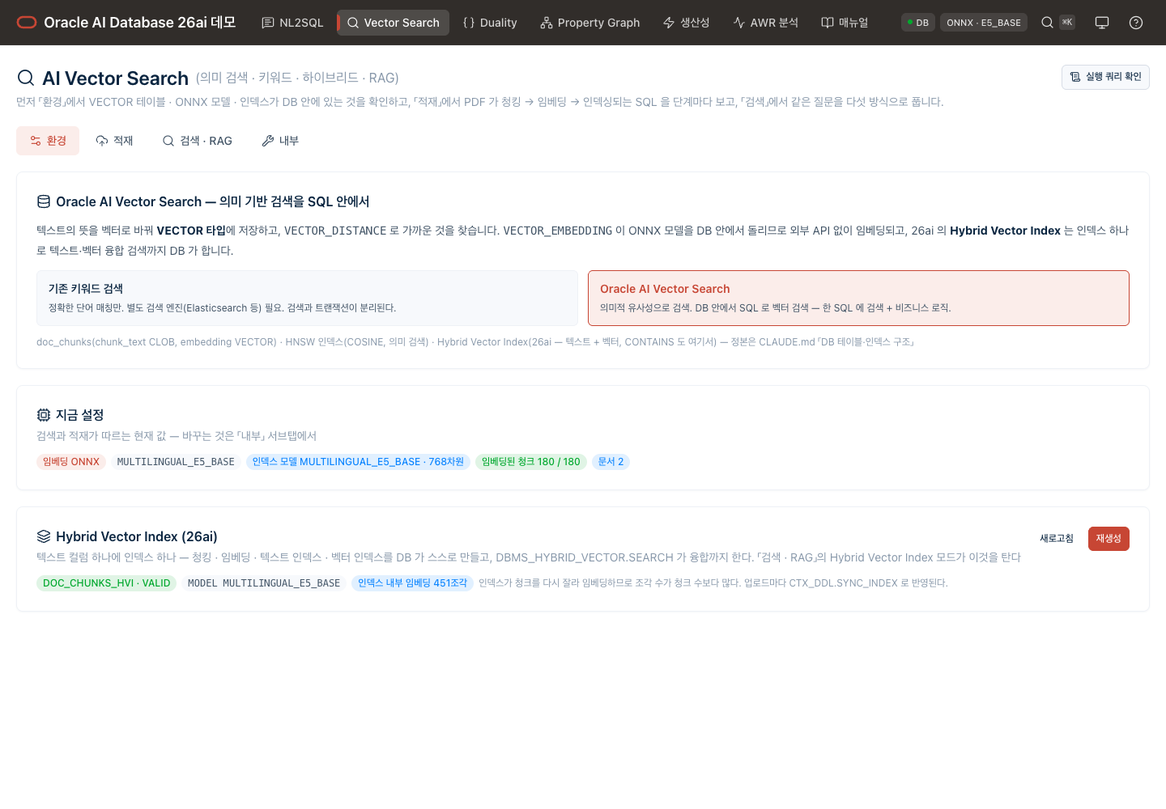
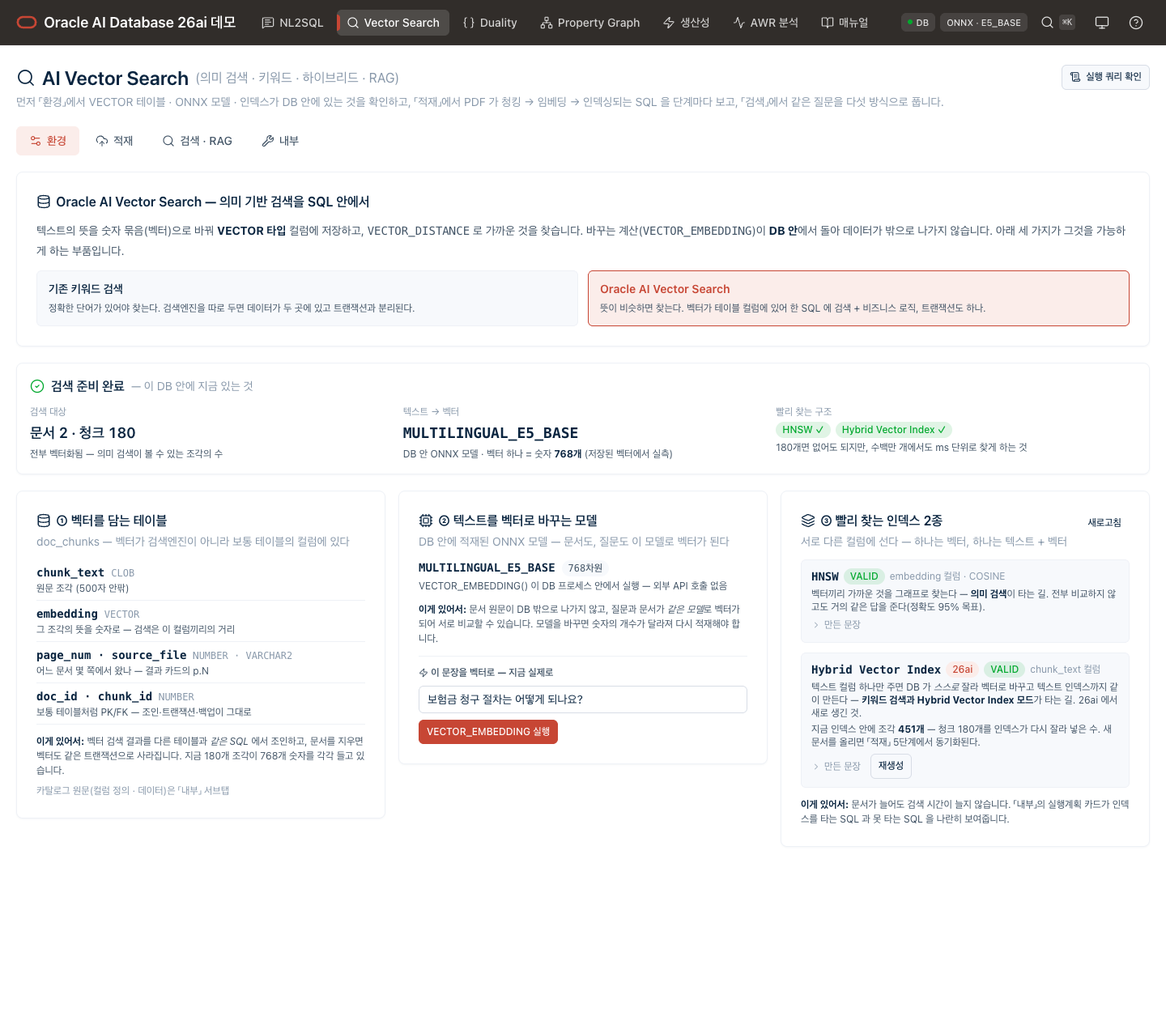
feat(vector): 「환경」 탭을 보는 사람 기준으로 다시 짓다 + VECTOR_DIMS 실측 (재편 P3, 보완 ⑤)
P1 화면에 대한 사용자 피드백: 소개 카드 밑의 "정본은 CLAUDE.md …" 줄은 관객에게 불필요 ·
「지금 설정」 카드의 목적이 안 보인다 · 칩 문구가 나열만 되어 보는 사람이 무엇을 얻어가는지
없다. 이것을 P3 의 설계 원칙으로 삼아 한 번에 지었다.

원칙: 값을 나열하지 않는다. 값마다 뜻, 카드마다 "이게 있어서: …" 한 줄, 가능한 곳엔 그 자리에서
실제 호출. 개발자용 문구(정본 위치·카탈로그 원문)는 「내부」로.

  VectorEnv.vue   개요(관객 문장) → 「검색 준비 완료」 3열 요약(검색 대상 · 텍스트→벡터 · 빨리 찾는
                  구조, 값 + 뜻) → 사슬 3카드: ① 벡터를 담는 테이블(컬럼 4개 + 뜻) · ② 텍스트를
                  벡터로 바꾸는 모델 + 「이 문장을 벡터로」(VECTOR_EMBEDDING 실행 → 숫자 768개·ms·
                  앞부분·SQL) · ③ 인덱스 2종(HNSW = 의미 검색이 타는 길, Hybrid Vector Index 26ai =
                  키워드·HVI 모드가 타는 길, 「만든 문장」 DDL 펼침, 생성 버튼)
  vector_search.py get_index_info 의 vector_dimensions: 768 하드코딩 → 저장된 벡터의 VECTOR_DIMS
                  실측 + dimensions_measured, hnsw_ddl. except: pass → logger.warning
  stores/vector.ts envEmbedText/envEmbed/testEmbed (onnx-models/test 재사용)

함정: lib/vector.ts 인터페이스를 문자열 슬라이스로 바꾸다 안쪽 '}' 에서 잘라 빌드가 깨졌다 —
다음 export 선언 직전까지를 범위로 복구. 여러 줄 타입은 파일을 읽고 고칠 것.

검증: 테스트 +1(dimensions_measured · hnsw_ddl), pytest 63 · ruff · build 통과. 브라우저: 요약
"문서 2 · 청크 180 · 전부 벡터화됨 · 768개 (저장된 벡터에서 실측) · HNSW ✓ HVI ✓", 카드 3개,
VECTOR_EMBEDDING 실행 → 768개 54ms + 미리보기 + SQL, DDL 토글 2개, 옛 정본 안내 줄 없음.
레지스트리 · 가이드 01 · 설계서 05 · CLAUDE.md(EMBEDDING_DIM = 폴백) · 핸드오프 4-21.

diff --git a/web/src/pages/vector/VectorEnv.vue b/web/src/pages/vector/VectorEnv.vue
@@ -1,69 +1,151 @@
 <script setup lang="ts">
 /**
- * 「환경」 서브탭 — 시연의 시작점: 이 DB 안에 무엇이 준비돼 있나 (2026-09-09 재편 P1).
- * P1 은 옛 Vector Store 의 소개 카드와 Hybrid Vector Index 카드를 옮기고 현재 설정 요약을 붙인 것.
- * P3 에서 NL2SQL 환경 탭과 같은 상태 스트립 + 카드 사슬(VECTOR 테이블 → ONNX 모델 → 인덱스 2종)로 다시 짠다.
+ * 「환경」 서브탭 (P3, 2026-09-09) — 시연의 시작점. 설계 원칙은 사용자 피드백 그대로:
+ * "보는 사람이 이 카드에서 무엇을 이해할 수 있는가". 값을 나열하지 않는다 — 값마다 뜻을, 카드마다 "이게 있어서 무엇이 되는가"를 적는다.
+ * 사슬: ① 벡터를 담는 테이블 → ② 텍스트를 벡터로 바꾸는 모델(DB 안) → ③ 빨리 찾는 인덱스 2종. 끝에 「이 문장을 벡터로」 실제 호출.
  */
 import { computed, onMounted, ref } from 'vue'
-import { Database, Layers, Cpu } from 'lucide-vue-next'
+import { Database, Cpu, Layers, Zap, ChevronRight, ChevronDown, CheckCircle2, XCircle } from 'lucide-vue-next'
 import Card from '@/components/ui/Card.vue'
 import Button from '@/components/ui/Button.vue'
 import Badge from '@/components/ui/Badge.vue'
 import ConfirmModal from '@/components/ui/ConfirmModal.vue'
+import LoadingBlock from '@/components/ui/LoadingBlock.vue'
 import SqlBlock from '@/components/demo/SqlBlock.vue'
 import VersusBox from '@/components/demo/VersusBox.vue'
+import { fmtNum } from '@/lib/format'
 import { useVectorStore } from '@/stores/vector'
+
 const v = useVectorStore()
 const confirmHvi = ref(false)
+const showDdl = ref<Record<string, boolean>>({})
+const toggle = (k: string) => { showDdl.value[k] = !showDdl.value[k] }
 onMounted(() => { void v.loadConfig(); if (!v.docsLoaded) void v.loadDocs(); if (!v.hvi) void v.loadHvi() })
-const embeddedRatio = computed(() => `${v.indexInfo?.embedded_chunks ?? '—'} / ${v.indexInfo?.total_chunks ?? '—'}`)
+
+const info = computed(() => v.indexInfo)
+const allEmbedded = computed(() => !!info.value && (info.value.total_chunks ?? 0) > 0 && info.value.embedded_chunks === info.value.total_chunks)
+const hnswOk = computed(() => (info.value?.index?.status ?? '') === 'VALID')
+const hviOk = computed(() => !!v.hvi?.exists && (v.hvi?.status ?? 'VALID') === 'VALID')
+const ready = computed(() => allEmbedded.value && hnswOk.value)
+
+// ① 테이블 — 스키마는 앱 코드가 정하므로 고정 목록. 카탈로그 원문은 「내부」에서
+const COLUMNS = [
+  { name: 'chunk_text', type: 'CLOB', meaning: '원문 조각 (500자 안팎)' },
+  { name: 'embedding', type: 'VECTOR', meaning: '그 조각의 뜻을 숫자로 — 검색은 이 컬럼끼리의 거리' },
+  { name: 'page_num · source_file', type: 'NUMBER · VARCHAR2', meaning: '어느 문서 몇 쪽에서 왔나 — 결과 카드의 p.N' },
+  { name: 'doc_id · chunk_id', type: 'NUMBER', meaning: '보통 테이블처럼 PK/FK — 조인·트랜잭션·백업이 그대로' },
+]
 </script>
 
 <template>
   <div class="flex flex-col gap-5">
+    <!-- 개요 -->
     <Card title="Oracle AI Vector Search — 의미 기반 검색을 SQL 안에서" :icon="Database">
-      <VersusBox left-title="기존 키워드 검색" left-desc="정확한 단어 매칭만. 별도 검색 엔진(Elasticsearch 등) 필요. 검색과 트랜잭션이 분리된다."
-        right-title="Oracle AI Vector Search" right-desc="의미적 유사성으로 검색. DB 안에서 SQL 로 벡터 검색 — 한 SQL 에 검색 + 비즈니스 로직.">
-        텍스트의 뜻을 벡터로 바꿔 <strong style="color: var(--text-primary);">VECTOR 타입</strong>에 저장하고, <code class="font-mono">VECTOR_DISTANCE</code> 로 가까운 것을 찾습니다.
-        <code class="font-mono">VECTOR_EMBEDDING</code> 이 ONNX 모델을 DB 안에서 돌리므로 외부 API 없이 임베딩되고, 26ai 의 <strong style="color: var(--text-primary);">Hybrid Vector Index</strong> 는 인덱스 하나로 텍스트·벡터 융합 검색까지 DB 가 합니다.
-        <template #footer>doc_chunks(chunk_text CLOB, embedding VECTOR) · HNSW 인덱스(COSINE, 의미 검색) · Hybrid Vector Index(26ai — 텍스트 + 벡터, CONTAINS 도 여기서) — 정본은 CLAUDE.md 「DB 테이블·인덱스 구조」</template>
+      <VersusBox left-title="기존 키워드 검색" left-desc="정확한 단어가 있어야 찾는다. 검색엔진을 따로 두면 데이터가 두 곳에 있고 트랜잭션과 분리된다."
+        right-title="Oracle AI Vector Search" right-desc="뜻이 비슷하면 찾는다. 벡터가 테이블 컬럼에 있어 한 SQL 에 검색 + 비즈니스 로직, 트랜잭션도 하나.">
+        텍스트의 뜻을 숫자 묶음(벡터)으로 바꿔 <strong style="color: var(--text-primary);">VECTOR 타입</strong> 컬럼에 저장하고, <code class="font-mono">VECTOR_DISTANCE</code> 로 가까운 것을 찾습니다.
+        바꾸는 계산(<code class="font-mono">VECTOR_EMBEDDING</code>)이 <strong style="color: var(--text-primary);">DB 안</strong>에서 돌아 데이터가 밖으로 나가지 않습니다. 아래 세 가지가 그것을 가능하게 하는 부품입니다.
       </VersusBox>
     </Card>
 
-    <Card title="지금 설정" subtitle="검색과 적재가 따르는 현재 값 — 바꾸는 것은 「내부」 서브탭에서" :icon="Cpu">
-      <div class="flex flex-wrap items-center gap-1.5">
-        <Badge tone="primary">임베딩 {{ v.sourceLabel }}</Badge>
-        <Badge tone="code">{{ v.model || '—' }}</Badge>
-        <Badge tone="info">인덱스 모델 {{ v.indexInfo?.embedding_model ?? '—' }} · {{ v.indexInfo?.vector_dimensions ?? '—' }}차원</Badge>
-        <Badge :tone="(v.indexInfo?.embedded_chunks ?? 0) > 0 ? 'positive' : 'default'">임베딩된 청크 {{ embeddedRatio }}</Badge>
-        <Badge tone="info">문서 {{ v.docs.length }}</Badge>
-        <Badge v-if="v.dimensionWarning" tone="warm">⚠ 인덱스 차원 ≠ 현재 모델</Badge>
-      </div>
-    </Card>
-
-    <Card title="Hybrid Vector Index (26ai)" subtitle="텍스트 컬럼 하나에 인덱스 하나 — 청킹 · 임베딩 · 텍스트 인덱스 · 벡터 인덱스를 DB 가 스스로 만들고, DBMS_HYBRID_VECTOR.SEARCH 가 융합까지 한다. 「검색 · RAG」의 Hybrid Vector Index 모드가 이것을 탄다" :icon="Layers">
-      <template #actions>
-        <Button size="sm" variant="ghost" :busy="v.hviBusy === 'load'" @click="v.loadHvi()">새로고침</Button>
-        <Button size="sm" :busy="v.hviBusy === 'create'" :disabled="v.hviBusy !== ''" @click="confirmHvi = true">{{ v.hvi?.exists ? '재생성' : '생성' }}</Button>
+    <!-- 준비 상태 — 한눈에. 값 + 뜻 -->
+    <Card compact>
+      <template #header>
+        <div class="flex items-center gap-2">
+          <component :is="ready ? CheckCircle2 : XCircle" :size="18" :stroke-width="1.75" :style="{ color: ready ? 'var(--accent-positive)' : 'var(--accent-warm)' }" />
+          <h3 class="font-semibold text-base m-0" style="color: var(--text-primary);">{{ ready ? '검색 준비 완료' : '준비 확인 중' }}</h3>
+          <span class="text-sm" style="color: var(--text-muted);">— 이 DB 안에 지금 있는 것</span>
+        </div>
       </template>
-      <div v-if="v.hvi" class="flex flex-wrap items-center gap-1.5 text-xs" style="color: var(--text-secondary);">
-        <Badge :tone="v.hvi.exists ? 'positive' : 'default'">{{ v.hvi.index_name }} · {{ v.hvi.exists ? (v.hvi.status || 'VALID') : '없음' }}</Badge>
-        <Badge v-if="v.hvi.exists" tone="code">MODEL {{ v.hvi.model }}</Badge>
-        <Badge v-if="v.hvi.exists && v.hvi.indexed_chunks != null" tone="info">인덱스 내부 임베딩 {{ v.hvi.indexed_chunks }}조각</Badge>
-        <Badge v-if="v.hvi.legacy_text_index" tone="warm">옛 CONTEXT 인덱스 DOC_CHUNKS_TEXT_IDX 남아 있음 — 생성 시 대체된다</Badge>
-        <span v-if="v.hvi.exists" style="color: var(--text-muted);">인덱스가 청크를 다시 잘라 임베딩하므로 조각 수가 청크 수보다 많다. 업로드마다 CTX_DDL.SYNC_INDEX 로 반영된다.</span>
-        <span v-else style="color: var(--text-muted);">생성은 청크 수 × 약 0.3초 (180청크 실측 57초). 업로드마다 CTX_DDL.SYNC_INDEX 로 새 청크가 반영된다.</span>
+      <div class="grid grid-cols-1 md:grid-cols-3 gap-4 mt-1">
+        <div>
+          <div class="text-xs mb-1" style="color: var(--text-muted);">검색 대상</div>
+          <div class="text-lg font-semibold tabular-nums" style="color: var(--text-primary);">문서 {{ v.docs.length }} · 청크 {{ fmtNum(info?.total_chunks ?? 0) }}</div>
+          <div class="text-xs mt-1" style="color: var(--text-secondary);">{{ allEmbedded ? '전부 벡터화됨' : `벡터화 ${info?.embedded_chunks ?? 0} / ${info?.total_chunks ?? 0}` }} — 의미 검색이 볼 수 있는 조각의 수</div>
+        </div>
+        <div>
+          <div class="text-xs mb-1" style="color: var(--text-muted);">텍스트 → 벡터</div>
+          <div class="text-lg font-semibold font-mono" style="color: var(--text-primary);">{{ v.model || '—' }}</div>
+          <div class="text-xs mt-1" style="color: var(--text-secondary);">{{ v.source === 'database' ? 'DB 안 ONNX 모델' : '외부 API' }} · 벡터 하나 = 숫자 <strong style="color: var(--text-primary);">{{ info?.vector_dimensions ?? '—' }}개</strong>{{ info?.dimensions_measured ? ' (저장된 벡터에서 실측)' : ' (설정값)' }}</div>
+        </div>
+        <div>
+          <div class="text-xs mb-1" style="color: var(--text-muted);">빨리 찾는 구조</div>
+          <div class="flex flex-wrap gap-1.5 mt-1"><Badge :tone="hnswOk ? 'positive' : 'negative'">HNSW {{ hnswOk ? '✓' : '✗' }}</Badge><Badge :tone="hviOk ? 'positive' : 'default'">Hybrid Vector Index {{ hviOk ? '✓' : '없음' }}</Badge></div>
+          <div class="text-xs mt-1" style="color: var(--text-secondary);">{{ fmtNum(info?.total_chunks ?? 0) }}개면 없어도 되지만, 수백만 개에서도 ms 단위로 찾게 하는 것</div>
+        </div>
       </div>
-      <div v-if="v.hviResult" class="mt-3 flex flex-col gap-2">
-        <div v-if="v.hviResult.error" class="px-3 py-2.5 rounded-md text-sm" style="background: var(--accent-negative-soft); border-left: 3px solid var(--accent-negative); color: var(--text-primary);"><span class="font-mono text-xs break-all">{{ v.hviResult.error }}</span></div>
-        <template v-for="(st, i) in v.hviResult.steps ?? []" :key="i">
-          <SqlBlock :code="st.sql" :label="st.note" :elapsed-ms="st.duration_ms" max-height="160px" />
-        </template>
-      </div>
-      <SqlBlock v-else-if="v.hvi && !v.hvi.exists" class="mt-3" :code="v.hvi.create_sql" label="생성 버튼이 실행하는 DDL" max-height="120px" />
     </Card>
 
-        <ConfirmModal :open="confirmHvi" title="Hybrid Vector Index 를 만들까요?" confirm-label="생성" :busy="v.hviBusy === 'create'" @confirm="confirmHvi = false; v.createHvi(!!v.hvi?.exists)" @cancel="confirmHvi = false">
+    <div class="grid grid-cols-1 lg:grid-cols-3 gap-4 items-start">
+      <!-- ① 테이블 -->
+      <Card title="① 벡터를 담는 테이블" subtitle="doc_chunks — 벡터가 검색엔진이 아니라 보통 테이블의 컬럼에 있다" :icon="Database">
+        <div class="flex flex-col">
+          <div v-for="c in COLUMNS" :key="c.name" class="py-1.5 text-sm" style="border-bottom: 1px solid var(--border-default);">
+            <div class="flex items-baseline gap-2"><span class="font-mono font-semibold" style="color: var(--text-primary);">{{ c.name }}</span><span class="font-mono text-xs" style="color: var(--text-muted);">{{ c.type }}</span></div>
+            <div class="text-xs mt-0.5" style="color: var(--text-secondary);">{{ c.meaning }}</div>
+          </div>
+        </div>
+        <p class="text-xs mt-3 m-0" style="color: var(--text-secondary); line-height: 1.5;">
+          <strong style="color: var(--text-primary);">이게 있어서:</strong> 벡터 검색 결과를 다른 테이블과 <em>같은 SQL</em> 에서 조인하고, 문서를 지우면 벡터도 같은 트랜잭션으로 사라집니다. 지금 {{ fmtNum(info?.embedded_chunks ?? 0) }}개 조각이 {{ info?.vector_dimensions ?? '—' }}개 숫자를 각각 들고 있습니다.
+        </p>
+        <span class="text-xs mt-2 inline-block" style="color: var(--text-muted);">카탈로그 원문(컬럼 정의 · 데이터)은 「내부」 서브탭</span>
+      </Card>
+
+      <!-- ② 모델 -->
+      <Card title="② 텍스트를 벡터로 바꾸는 모델" subtitle="DB 안에 적재된 ONNX 모델 — 문서도, 질문도 이 모델로 벡터가 된다" :icon="Cpu">
+        <div class="text-sm" style="color: var(--text-primary);">
+          <div class="flex items-baseline gap-2"><span class="font-mono font-semibold">{{ v.model || '—' }}</span><Badge tone="code">{{ info?.vector_dimensions ?? '—' }}차원</Badge></div>
+          <div class="text-xs mt-1" style="color: var(--text-secondary);">{{ v.source === 'database' ? 'VECTOR_EMBEDDING() 이 DB 프로세스 안에서 실행 — 외부 API 호출 없음' : '외부 임베딩 API 사용 중 (데이터가 DB 밖으로 나간다)' }}</div>
+        </div>
+        <p class="text-xs mt-3 m-0" style="color: var(--text-secondary); line-height: 1.5;">
+          <strong style="color: var(--text-primary);">이게 있어서:</strong> 문서 원문이 DB 밖으로 나가지 않고, 질문과 문서가 <em>같은 모델</em>로 벡터가 되어 서로 비교할 수 있습니다. 모델을 바꾸면 숫자의 개수가 달라져 다시 적재해야 합니다.
+        </p>
+        <div class="mt-3 pt-3 flex flex-col gap-2" style="border-top: 1px solid var(--border-default);">
+          <div class="text-xs font-semibold" style="color: var(--text-secondary);"><Zap :size="12" :stroke-width="2" class="inline -mt-0.5" /> 이 문장을 벡터로 — 지금 실제로</div>
+          <input v-model="v.envEmbedText" :disabled="v.envEmbedBusy" class="w-full rounded-md px-2.5 py-1.5 text-sm" style="background: var(--bg-elevated); border: 1px solid var(--border-strong); color: var(--text-primary);" @keydown.enter.prevent="v.testEmbed()" />
+          <div><Button size="sm" :busy="v.envEmbedBusy" :disabled="!v.model || v.source !== 'database'" @click="v.testEmbed()">VECTOR_EMBEDDING 실행</Button></div>
+          <LoadingBlock v-if="v.envEmbedBusy" compact label="DB 안에서 벡터를 만드는 중…" />
+          <template v-else-if="v.envEmbed">
+            <div v-if="v.envEmbed.error" class="px-3 py-2 rounded-md text-xs font-mono break-all" style="background: var(--accent-negative-soft); color: var(--text-primary);">{{ v.envEmbed.error }}</div>
+            <template v-else>
+              <div class="text-xs" style="color: var(--text-secondary);">문장 하나 → 숫자 <strong style="color: var(--text-primary);">{{ v.envEmbed.dimensions }}개</strong>, {{ v.envEmbed.processing_ms }}ms. 앞부분:</div>
+              <div class="font-mono text-xs px-2.5 py-2 rounded-md break-all" style="background: var(--bg-elevated); border: 1px solid var(--border-default); color: var(--text-primary);">{{ v.envEmbed.vector_preview }}</div>
+              <SqlBlock :code="v.envEmbed.sql_executed" label="실행된 SQL" max-height="90px" />
+            </template>
+          </template>
+        </div>
+      </Card>
+
+      <!-- ③ 인덱스 -->
+      <Card title="③ 빨리 찾는 인덱스 2종" subtitle="서로 다른 컬럼에 선다 — 하나는 벡터, 하나는 텍스트 + 벡터" :icon="Layers">
+        <template #actions><Button size="sm" variant="ghost" :busy="v.hviBusy === 'load'" @click="v.loadHvi(); v.loadConfig(true)">새로고침</Button></template>
+        <div class="flex flex-col gap-3">
+          <div class="rounded-md px-3 py-2.5" style="background: var(--bg-surface); border: 1px solid var(--border-default);">
+            <div class="flex flex-wrap items-center gap-1.5"><span class="font-mono text-sm font-semibold" style="color: var(--text-primary);">HNSW</span><Badge :tone="hnswOk ? 'positive' : 'negative'">{{ info?.index?.status ?? '없음' }}</Badge><span class="text-xs" style="color: var(--text-muted);">embedding 컬럼 · COSINE</span></div>
+            <div class="text-xs mt-1" style="color: var(--text-secondary);">벡터끼리 가까운 것을 그래프로 찾는다 — <strong style="color: var(--text-primary);">의미 검색</strong>이 타는 길. 전부 비교하지 않고도 거의 같은 답을 준다(정확도 95% 목표).</div>
+            <button type="button" class="mt-1.5 inline-flex items-center gap-1 text-xs" style="color: var(--text-muted);" @click="toggle('hnsw')"><component :is="showDdl.hnsw ? ChevronDown : ChevronRight" :size="12" :stroke-width="2" /> 만든 문장</button>
+            <SqlBlock v-if="showDdl.hnsw && info?.hnsw_ddl" class="mt-1.5" :code="info.hnsw_ddl" label="CREATE VECTOR INDEX" max-height="120px" />
+          </div>
+          <div class="rounded-md px-3 py-2.5" style="background: var(--bg-surface); border: 1px solid var(--border-default);">
+            <div class="flex flex-wrap items-center gap-1.5"><span class="font-mono text-sm font-semibold" style="color: var(--text-primary);">Hybrid Vector Index</span><Badge tone="primary">26ai</Badge><Badge :tone="hviOk ? 'positive' : 'default'">{{ v.hvi?.exists ? (v.hvi.status || 'VALID') : '없음' }}</Badge><span class="text-xs" style="color: var(--text-muted);">chunk_text 컬럼</span></div>
+            <div class="text-xs mt-1" style="color: var(--text-secondary);">텍스트 컬럼 하나만 주면 DB 가 <em>스스로</em> 잘라 벡터로 바꾸고 텍스트 인덱스까지 같이 만든다 — <strong style="color: var(--text-primary);">키워드 검색과 Hybrid Vector Index 모드</strong>가 타는 길. 26ai 에서 새로 생긴 것.</div>
+            <div v-if="v.hvi?.exists" class="text-xs mt-1" style="color: var(--text-secondary);">지금 인덱스 안에 조각 <strong style="color: var(--text-primary);">{{ fmtNum(v.hvi.indexed_chunks ?? 0) }}개</strong> — 청크 {{ fmtNum(info?.total_chunks ?? 0) }}개를 인덱스가 다시 잘라 넣은 수. 새 문서를 올리면 「적재」 5단계에서 동기화된다.</div>
+            <div class="mt-1.5 flex items-center gap-3">
+              <button type="button" class="inline-flex items-center gap-1 text-xs" style="color: var(--text-muted);" @click="toggle('hvi')"><component :is="showDdl.hvi ? ChevronDown : ChevronRight" :size="12" :stroke-width="2" /> 만든 문장</button>
+              <Button size="sm" :variant="v.hvi?.exists ? 'secondary' : 'primary'" :busy="v.hviBusy === 'create'" :disabled="v.hviBusy !== ''" @click="confirmHvi = true">{{ v.hvi?.exists ? '재생성' : '생성' }}</Button>
+            </div>
+            <SqlBlock v-if="showDdl.hvi && v.hvi?.create_sql" class="mt-1.5" :code="v.hvi.create_sql" label="CREATE HYBRID VECTOR INDEX" max-height="120px" />
+            <div v-if="v.hviResult" class="mt-2 flex flex-col gap-2">
+              <div v-if="v.hviResult.error" class="px-3 py-2 rounded-md text-xs font-mono break-all" style="background: var(--accent-negative-soft); color: var(--text-primary);">{{ v.hviResult.error }}</div>
+              <SqlBlock v-for="(st, i) in v.hviResult.steps ?? []" :key="i" :code="st.sql" :label="st.note" :elapsed-ms="st.duration_ms" max-height="120px" />
+            </div>
+          </div>
+        </div>
+        <p class="text-xs mt-3 m-0" style="color: var(--text-secondary); line-height: 1.5;"><strong style="color: var(--text-primary);">이게 있어서:</strong> 문서가 늘어도 검색 시간이 늘지 않습니다. 「내부」의 실행계획 카드가 인덱스를 타는 SQL 과 못 타는 SQL 을 나란히 보여줍니다.</p>
+      </Card>
+    </div>
+
+    <ConfirmModal :open="confirmHvi" title="Hybrid Vector Index 를 만들까요?" confirm-label="생성" :busy="v.hviBusy === 'create'" @confirm="confirmHvi = false; v.createHvi(!!v.hvi?.exists)" @cancel="confirmHvi = false">
       청크 수 × 약 0.3초가 걸립니다 (DB 가 모든 청크를 다시 잘라 임베딩합니다). 같은 컬럼의 옛 Oracle Text 인덱스(DOC_CHUNKS_TEXT_IDX)는 지워지고, 이 인덱스가 CONTAINS 도 대신 서빙합니다.
     </ConfirmModal>
   </div>

diff --git a/web/src/stores/vector.ts b/web/src/stores/vector.ts
@@ -1,5 +1,5 @@
 import { defineStore } from 'pinia'
-import { getHybridIndex, createHybridIndex, type HybridIndexStatus, type HybridIndexCreate } from '@/lib/vector'
+import { getHybridIndex, createHybridIndex, ENV_EMBED_SAMPLE, type HybridIndexStatus, type HybridIndexCreate } from '@/lib/vector'
 import { computed, ref } from 'vue'
 import { errorMessage } from '@/lib/api'
 import { postSse } from '@/composables/useSse'
@@ -261,6 +261,17 @@ export const useVectorStore = defineStore('vector', () => {
   const onnxLocalResult = ref<{ success: boolean; message?: string; error?: string; size_mb?: number; elapsed_ms?: number } | null>(null)
   const onnxCloudResult = ref<{ success: boolean; message?: string; error?: string; elapsed_ms?: number } | null>(null)
   async function refreshOnnx() { onnxBusy.value = 'refresh'; try { onnxModels.value = await getOnnxModels(); system.toast(`ONNX 모델 ${onnxModels.value.length}개`, 'success') } catch (e) { system.toast(errorMessage(e), 'error') } finally { onnxBusy.value = '' } }
+  // 환경 탭 「이 문장을 벡터로」 — NL2SQL 의 실제 호출 테스트와 대칭. 텍스트가 DB 안에서 숫자 768개가 되는 것을 그 자리에서 보인다
+  const envEmbedText = ref(ENV_EMBED_SAMPLE)
+  const envEmbed = ref<OnnxTest | null>(null)
+  const envEmbedBusy = ref(false)
+  async function testEmbed() {
+    if (envEmbedBusy.value || !model.value) return
+    envEmbedBusy.value = true; envEmbed.value = null
+    try { envEmbed.value = await testOnnx(model.value, envEmbedText.value.trim() || ENV_EMBED_SAMPLE) }
+    catch (e) { envEmbed.value = { success: false, model_name: model.value, error: errorMessage(e) } }
+    finally { envEmbedBusy.value = false }
+  }
   async function testModel(name: string) { onnxBusy.value = 'test'; onnxTest.value = null; try { onnxTest.value = await testOnnx(name, '한국어 임베딩 모델 테스트 문장입니다.') } catch (e) { onnxTest.value = { success: false, model_name: name, error: errorMessage(e) } } finally { onnxBusy.value = '' } }
   async function deleteModel(name: string) { onnxBusy.value = 'delete'; try { const r = await deleteOnnx(name); if (r.success) { system.toast(r.message || '삭제했습니다.', 'success'); await loadConfig(true) } else system.toast(r.error || '삭제 실패', 'error') } catch (e) { system.toast(errorMessage(e), 'error') } finally { onnxBusy.value = '' } }
   async function uploadLocal(file: File, name: string) {
@@ -282,5 +293,6 @@ export const useVectorStore = defineStore('vector', () => {
     mode, topK, provider, input, searching, messages, sessions, activeSession, visibleMessages, sourceLabel, send, toggleExtra, saveSession, switchSession, removeSession, clearCurrent,
     onnxTest, onnxBusy, onnxLocalResult, onnxCloudResult, refreshOnnx, testModel, deleteModel, uploadLocal, loadCloud,
     hvi, hviBusy, hviResult, loadHvi, createHvi,
+    envEmbedText, envEmbed, envEmbedBusy, testEmbed,
   }
 })

diff --git a/web/src/lib/vector.ts b/web/src/lib/vector.ts
@@ -11,6 +11,9 @@ export const SEARCH_MODES: { value: SearchMode; label: string; hint: string }[] 
   { value: 'hybrid', label: '수동 하이브리드', hint: 'CONTAINS + VECTOR_DISTANCE 를 한 SQL 에서 직접 가중합 — 23ai 어디서나 되는 방식' },
   { value: 'hvi', label: 'Hybrid Vector Index (26ai)', hint: 'CREATE HYBRID VECTOR INDEX 하나 + DBMS_HYBRID_VECTOR.SEARCH — 텍스트·벡터 융합을 DB 가 한다' },
 ]
+/** 환경 탭 「이 문장을 벡터로」 기본 문장 — 관객이 방금 본 화면 문구라서 결과가 낯설지 않다 */
+export const ENV_EMBED_SAMPLE = '보험금 청구 절차는 어떻게 되나요?'
+
 export const LOADING_STEPS = ['질문 임베딩 중…', '벡터 유사도 검색 중…', '참조 문서 수집 중…', 'RAG 답변 생성 중…']
 export const EXAMPLE_QUESTIONS = [
   '자동차 사고 시 보험금 청구 절차는 어떻게 되나요?', '음주운전 사고도 보험 보상이 되나요?', '피보험자에 보상하지 않는 경우는 어떤 경우인가?',
@@ -31,7 +34,10 @@ export interface SearchResponse {
 export interface EmbeddingInfo { success: boolean; input_text?: string; model?: string; source?: string; dimensions?: number; processing_ms?: number; vector_preview?: string; error?: string }
 export interface IndexInfo {
   success: boolean; total_chunks?: number; embedded_chunks?: number; total_documents?: number; embedding_model?: string; embedding_source?: string
-  vector_dimensions?: number | string; distance_metric?: string; index?: { index_name: string; index_type: string; status: string } | null; error?: string
+  /** 실제 저장된 벡터에서 VECTOR_DIMS 로 잰 값 (2026-09-09). dimensions_measured=false 면 설정값 폴백 */
+  vector_dimensions?: number | string; dimensions_measured?: boolean
+  distance_metric?: string; index?: { index_name: string; index_type: string; status: string } | null; error?: string
+  hnsw_ddl?: string
 }
 export interface VizPoint { chunk_id: number; source_file: string; page_num: number; x: number; y: number; matched: boolean }
 export interface VizData { success: boolean; points: VizPoint[]; query_point?: { x: number; y: number; label: string }; total_chunks?: number; error?: string }

diff --git a/app/vector_search.py b/app/vector_search.py
@@ -635,6 +635,11 @@ async def upload_document(pool, file_path: str, filename: str, progress_callback
         raise e
 
 
+HNSW_DDL = """CREATE VECTOR INDEX doc_chunks_hnsw_idx ON doc_chunks(embedding)
+ORGANIZATION INMEMORY NEIGHBOR GRAPH
+DISTANCE COSINE
+WITH TARGET ACCURACY 95"""
+
 # === Hybrid Vector Index (Oracle 26ai) ===
 # 텍스트 컬럼 하나에 인덱스 하나 — 청킹·임베딩·텍스트 인덱스·벡터 인덱스를 DB 가 스스로 만든다.
 # 2026-09-08 실측(이 ADB): CREATE 180청크 ~50초(모델로 재임베딩), DBMS_HYBRID_VECTOR.SEARCH 0.6초, CTX_DDL.SYNC_INDEX 0.3초.
@@ -1149,8 +1154,17 @@ async def get_index_info(pool) -> dict:
                         "index_type": idx_row[1],
                         "status": idx_row[2],
                     }
-            except Exception:
-                pass
+            except Exception as e:
+                logger.warning("[index-info] 벡터 인덱스 조회 실패: %s", e)
+
+            # 차원은 설정값(EMBEDDING_DIM)이 아니라 실제 저장된 벡터에서 잰다 — 모델을 바꿔도 화면이 거짓말하지 않게 (2026-09-09, 보완 ⑤)
+            actual_dims = None
+            try:
+                await cursor.execute("SELECT VECTOR_DIMS(embedding) FROM doc_chunks WHERE embedding IS NOT NULL FETCH FIRST 1 ROWS ONLY")
+                r = await cursor.fetchone()
+                actual_dims = r[0] if r else None
+            except Exception as e:
+                logger.warning("[index-info] VECTOR_DIMS 실측 실패: %s", e)
 
             return {
                 "total_chunks": total_chunks,
@@ -1158,9 +1172,11 @@ async def get_index_info(pool) -> dict:
                 "total_documents": total_docs,
                 "embedding_model": settings.EMBEDDING_MODEL,
                 "embedding_source": settings.EMBEDDING_SOURCE,
-                "vector_dimensions": 768,
+                "vector_dimensions": actual_dims if actual_dims is not None else settings.EMBEDDING_DIM,
+                "dimensions_measured": actual_dims is not None,
                 "distance_metric": "COSINE",
                 "index": index_info,
+                "hnsw_ddl": HNSW_DDL,
             }
 
 

diff --git a/app/feature_registry.py b/app/feature_registry.py
@@ -53,7 +53,7 @@ _F = [
 
  # ── ② AI Vector Search ────────────────────────────────────
  ("vector", "환경 — 이 DB 에 무엇이 준비돼 있나", "VECTOR 타입 테이블 · DB 안 ONNX 모델 · HNSW/Hybrid Vector Index 를 시연 시작 전에 한 화면에서",
-  "시연의 시작점(기본 진입). 소개 카드 → 현재 설정 → Hybrid Vector Index 상태. 바꾸는 것은 「내부」에서.",
+  "시연의 시작점(기본 진입). 준비 상태 한눈에 → ① 벡터를 담는 테이블 → ② 텍스트를 벡터로 바꾸는 모델(「이 문장을 벡터로」 실제 호출) → ③ 인덱스 2종. 값마다 뜻이 붙어 있어 보는 사람이 그대로 이해한다. 바꾸는 것은 「내부」에서.",
   "/vector?sub=env", "env environment 환경 준비 상태 vector table onnx index"),
  ("vector", "내부 — 테이블·인덱스 조회", "DOCUMENTS/DOC_CHUNKS 테이블 생성·삭제·정의·데이터·인덱스 조회",
   "벡터 저장소가 실제로 어떤 테이블·인덱스로 되어 있는지 보여줄 때. DBA 가 반드시 묻는 것.",

diff --git a/tests/test_api_smoke.py b/tests/test_api_smoke.py
@@ -324,6 +324,12 @@ class TestVectorIndexPaths:
         c = d["chunks"][0]
         assert {"hybrid_score", "similarity", "keyword_score"} <= set(c) and 0 < c["hybrid_score"] <= 1
 
+    def test_인덱스_정보의_차원은_실측값이다(self, client):
+        """2026-09-09 보완 ⑤: vector_dimensions 가 설정 상수(768 하드코딩)였다 — 저장된 벡터의 VECTOR_DIMS 로 잰다."""
+        d = client.get("/api/vector/index-info").json()
+        assert d["dimensions_measured"] is True and isinstance(d["vector_dimensions"], int) and d["vector_dimensions"] > 0
+        assert "CREATE VECTOR INDEX" in d.get("hnsw_ddl", "")
+
     def test_키워드_검색은_여전히_CONTAINS_로_돈다(self, client):
         d = client.post("/api/vector/search", json={"query": "보험금 청구", "mode": "keyword", "top_k": 3}).json()
         assert d.get("success"), d.get("error")

diff --git a/docs/SESSION_HANDOFF.md b/docs/SESSION_HANDOFF.md
@@ -529,6 +529,25 @@ primary 옆에 놓인 secondary 가 같은 높이가 된다 — 이 화면만이
 모드 순서 · 적재 화면에서 실제 PDF 업로드 후 단계 펼침(SQL·청크 표본·768차원 미리보기·인덱스 조각) · 테스트 문서 삭제.
 남은 것: P3 환경 탭(상태 스트립·사슬·테스트 임베딩·`VECTOR_DIMS`) → P4 내부 표본 → P5 장표 기반 → P7. ④ Select AI RAG 는 P1–P4 뒤 논의.
 
+## 4-21. Vector 「환경」 탭 P3 — 보는 사람 기준으로 다시 짓다 + `VECTOR_DIMS` 실측 (2026-09-09, Fable 5.1)
+
+**계기** — P1 화면에 대한 사용자 피드백: 소개 카드 밑의 "정본은 CLAUDE.md …" 줄은 관객에게 불필요 · 「지금 설정」 카드의 목적이 안 보인다 ·
+칩 문구들이 나열만 되어 **보는 사람이 무엇을 얻어가는지** 없다. → 이것을 P3 의 설계 원칙으로 삼아 한 번에 지었다(P1 카드를 손본 뒤 다시 뜯지 않음).
+
+**원칙** — 값을 나열하지 않는다. **값마다 뜻**, **카드마다 "이게 있어서: …" 한 줄**(이게 있어서 무엇이 되는가), 가능한 곳엔 **그 자리에서 실제 호출**.
+개발자용 문구(정본 위치·카탈로그 원문)는 「내부」로 보낸다.
+
+**구조** (`VectorEnv.vue` 전면 교체)
+1. 개요 `VersusBox` — 관객 문장으로("뜻이 비슷하면 찾는다 · 벡터가 테이블 컬럼에 있어 한 SQL"). 정본 안내 줄 삭제.
+2. **「검색 준비 완료」 요약** — 3열: 검색 대상(문서·청크·전부 벡터화됨 → "의미 검색이 볼 수 있는 조각의 수") · 텍스트→벡터(모델 · **숫자 768개 (저장된 벡터에서 실측)**) · 빨리 찾는 구조(HNSW ✓ · HVI ✓ → "수백만 개에서도 ms").
+3. **사슬 3카드** — ① 벡터를 담는 테이블(컬럼 4개 + 뜻, "이게 있어서: 조인·트랜잭션이 그대로") · ② 텍스트를 벡터로 바꾸는 모델(DB 안, "이게 있어서: 원문이 밖으로 안 나간다") + **「이 문장을 벡터로」** 입력·실행(`onnx-models/test` 재사용 → 숫자 768개·ms·앞부분·SQL) · ③ 인덱스 2종(HNSW = 의미 검색이 타는 길 · Hybrid Vector Index **26ai** = 키워드·HVI 모드가 타는 길, 각각 「만든 문장」 DDL 펼침, 생성/재생성 버튼, "이게 있어서: 문서가 늘어도 검색 시간이 안 는다").
+옛 「지금 설정」·「Hybrid Vector Index」 카드는 각각 요약 행과 ③ 으로 흡수.
+
+**⑤ 해소** — `get_index_info` 의 `vector_dimensions: 768` 이 **하드코딩**이었다. 저장된 벡터에서 `VECTOR_DIMS` 로 재고 `dimensions_measured` 를 같이 준다(없으면 설정값 폴백). `hnsw_ddl` 도 응답에(화면의 「만든 문장」). 그 자리의 `except: pass` 를 `logger.warning` 으로.
+테스트 +1(`dimensions_measured is True`, `hnsw_ddl` 포함).
+
+**함정** — `lib/vector.ts` 인터페이스를 문자열 슬라이스로 바꾸다 안쪽 `}` 에서 잘라 빌드가 깨졌다(`index?: {…} | null` 의 중괄호). 다음 `export ` 선언 직전까지를 범위로 잡아 복구. 여러 줄 타입은 정규식으로 자르지 말고 파일을 읽고 고칠 것.
+
 ## 5. 절대 지켜야 할 규칙 (발췌 — 정본은 `docs/개발노하우.md`)
 
 - **커밋 전 시크릿 게이트 필수.** 저장소가 GitHub 공개다. 한번 push 된 시크릿은

diff --git a/docs/guides/01_사용자_가이드.md b/docs/guides/01_사용자_가이드.md
@@ -128,7 +128,7 @@ curl -s http://localhost:8247/api/health
 
 ### 이렇게 써보세요 (권장 순서)
 
-1. **환경** 서브탭(기본 진입) → 소개 · 지금 설정 · Hybrid Vector Index 상태. 테이블·인덱스 카탈로그는 **내부** 서브탭의 `컬럼 정의`·`인덱스 조회`
+1. **환경** 서브탭(기본 진입) → 「검색 준비 완료」 한 줄 → ① 벡터를 담는 테이블 → ② 모델 카드의 **「VECTOR_EMBEDDING 실행」** (문장 하나가 숫자 768개가 되는 것을 그 자리에서) → ③ 인덱스 2종(만든 문장 펼치기). 카탈로그 원문은 **내부** 서브탭
    → 무엇이 저장되는지 먼저 보여줍니다 (`embedding VECTOR` 컬럼, HNSW·Oracle Text 인덱스)
 2. **적재** 서브탭 → PDF 하나 올리기. 끝나면 **단계별 실행 내역**의 라벨을 눌러 실행된 SQL(`UTL_TO_CHUNKS` · `UPDATE … VECTOR_EMBEDDING` · `SYNC_INDEX`)과 표본(청크 3개 · 벡터 앞 8차원)을 펼친다
    → 5단계 파이프라인이 실시간으로 흐릅니다 (등록 → 추출 → 청킹 → 임베딩 → 인덱싱). 임베딩 없이 저장된 청크가 있으면 **경고 배너**가 뜹니다

diff --git a/CLAUDE.md b/CLAUDE.md
@@ -274,7 +274,7 @@ APP_PORT=8247
 # Vector Embedding
 EMBEDDING_SOURCE=database              # "database"(ONNX) 또는 "external"
 EMBEDDING_MODEL=MULTILINGUAL_E5_BASE   # ONNX 모델명 또는 외부 API 모델명
-EMBEDDING_DIM=768                      # 표시용 — 실제 차원은 모델이 결정한다
+EMBEDDING_DIM=768                      # 폴백용 — 화면은 저장된 벡터의 VECTOR_DIMS 실측을 쓴다(2026-09-09), 벡터가 없을 때만 이 값
 EMBEDDING_API_URL=                     # 외부 API 사용 시
 EMBEDDING_API_KEY=
 
